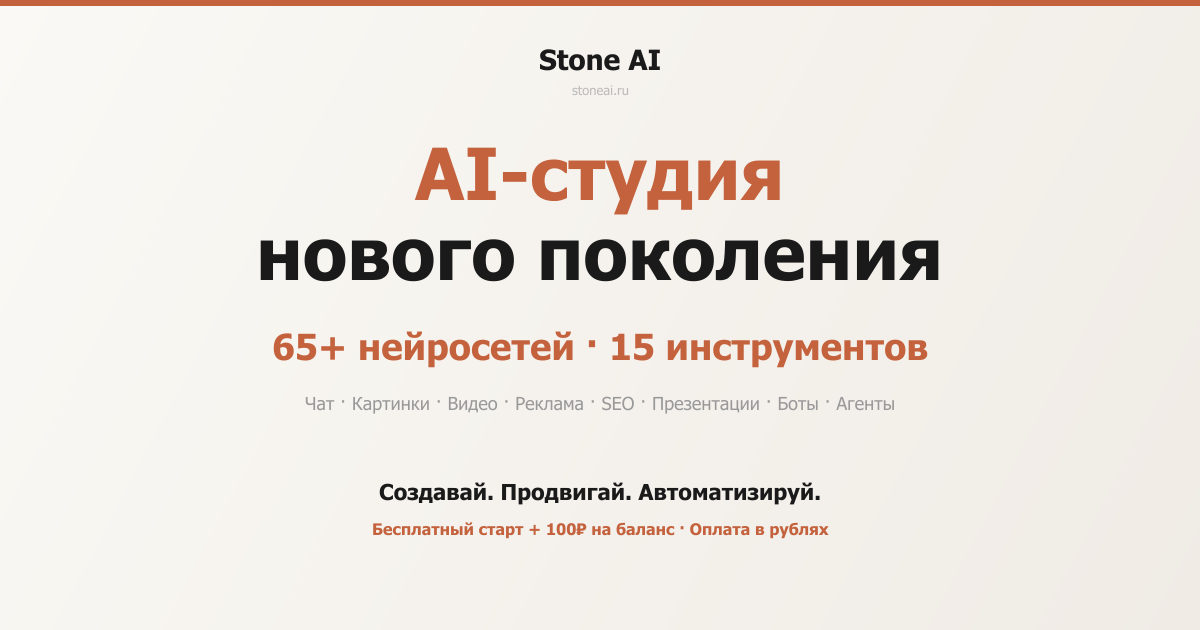
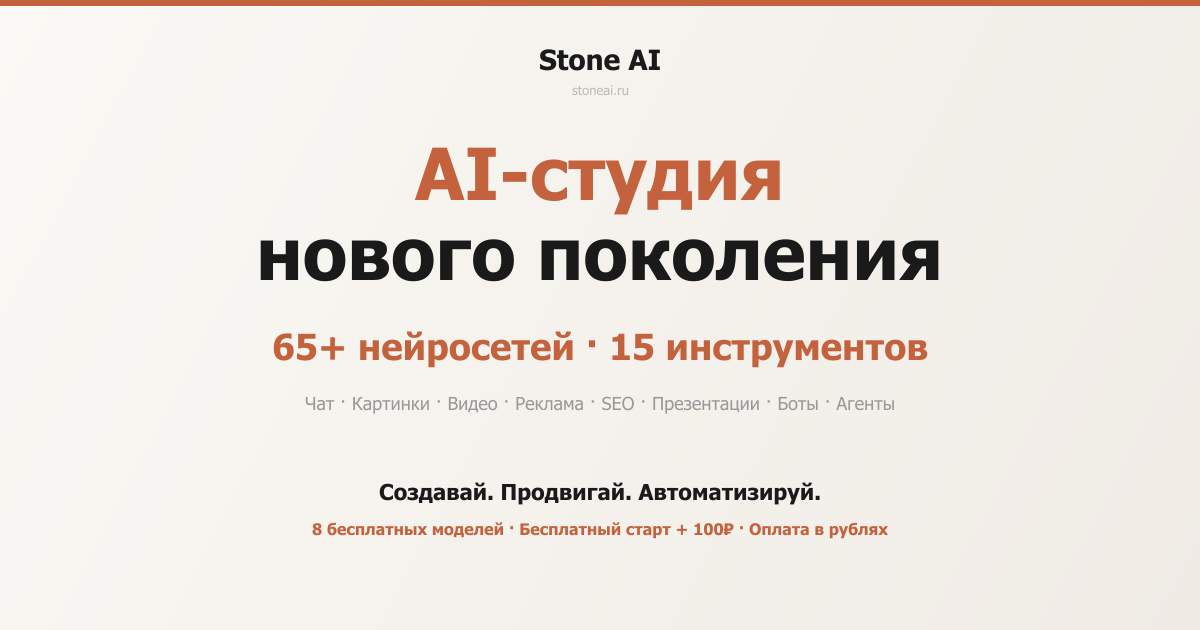
feat: streaming cursor, real model badge, OG image 8 models
1. Streaming cursor: blinking ▊ caret in accent color during generation
2. Model badge: shows actual model that generated response (not just selected)
   - modelId saved per message in Message interface
3. OG image: updated "7 бесплатных" → "8 бесплатных моделей"

Changed region(s): [[0.2467, 0.8143, 0.74, 0.8746]]

diff --git a/website/components/WebChat.tsx b/website/components/WebChat.tsx
@@ -86,6 +86,7 @@ interface FileAttachment {
 interface Message {
   role: "user" | "assistant";
   content: string;
+  modelId?: string;
   file?: FileAttachment;
   video?: { url: string; directUrl?: string; taskId?: string; thumbnailUrl?: string; cost_usd?: number };
   threed?: { url: string; cost_usd?: number };
@@ -1356,7 +1357,7 @@ export default function WebChat({ initialModel, initialCategory, embedded }: { i
       let assistantContent = "";
       let billing: Message["billing"] | undefined;
 
-      setMessages([...history, { role: "assistant", content: "" }]);
+      setMessages([...history, { role: "assistant", content: "", modelId: isGuest ? "gpt-4o-mini" : selectedModel }]);
 
       while (true) {
         const { done, value } = await reader.read();
@@ -1396,14 +1397,14 @@ export default function WebChat({ initialModel, initialCategory, embedded }: { i
               } else {
                 assistantContent = "Ошибка генерации. Попробуйте ещё раз.";
               }
-              setMessages([...history, { role: "assistant", content: assistantContent }]);
+              setMessages([...history, { role: "assistant", content: assistantContent, modelId: isGuest ? "gpt-4o-mini" : selectedModel }]);
               continue;
             }
 
             const content = data.content || data.choices?.[0]?.delta?.content;
             if (content) {
               assistantContent += content;
-              setMessages([...history, { role: "assistant", content: assistantContent, billing }]);
+              setMessages([...history, { role: "assistant", content: assistantContent, billing, modelId: isGuest ? "gpt-4o-mini" : selectedModel }]);
             }
           } catch {}
         }
@@ -1867,9 +1868,9 @@ export default function WebChat({ initialModel, initialCategory, embedded }: { i
                       </div>
 
                       {/* Model badge for AI messages */}
-                      {msg.role === "assistant" && msg.content && !streaming && (
+                      {msg.role === "assistant" && msg.content && !(streaming && i === messages.length - 1) && (
                         <div className="flex items-center gap-1.5 mt-1.5">
-                          <span className="text-[9px] text-text/20 bg-text/[0.03] px-1.5 py-0.5 rounded">{model?.name || selectedModel}</span>
+                          <span className="text-[9px] text-text/20 bg-text/[0.03] px-1.5 py-0.5 rounded">{MODELS.find(m => m.id === msg.modelId)?.name || msg.modelId || model?.name}</span>
                         </div>
                       )}
 

diff --git a/website/app/globals.css b/website/app/globals.css
@@ -21,6 +21,20 @@ html {
   overscroll-behavior: none;
 }
 
+/* Streaming cursor — blinking caret after last character */
+.streaming-cursor::after {
+  content: "▊";
+  display: inline;
+  color: var(--color-accent, #C4623D);
+  animation: blink-cursor 0.8s step-end infinite;
+  margin-left: 1px;
+  font-weight: bold;
+}
+@keyframes blink-cursor {
+  0%, 100% { opacity: 1; }
+  50% { opacity: 0; }
+}
+
 body {
   @apply bg-bg text-text font-sans antialiased;
   overflow-x: hidden;
